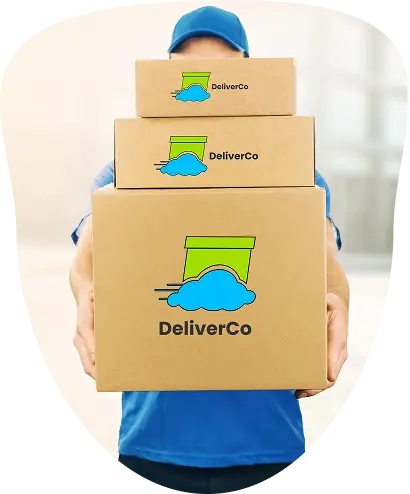
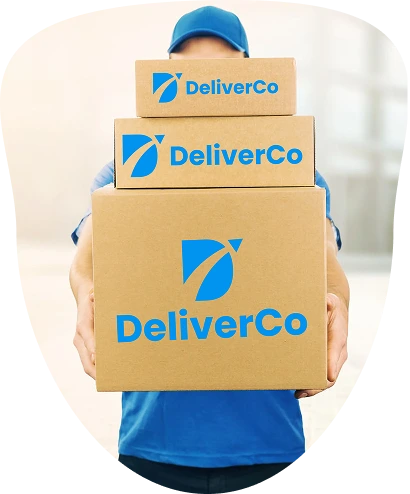
chore:replace new images and  sprate main image in new component and handle pass

Changed region(s): [[0.2634, 0.4555, 0.761, 0.6984], [0.2927, 0.2429, 0.761, 0.3644], [0.3512, 0.1215, 0.6732, 0.2126]]

diff --git a/src/features/auth/components/ForgetPasswordForm.tsx b/src/features/auth/components/ForgetPasswordForm.tsx
@@ -1,11 +1,10 @@
 import { useFormik } from "formik";
 import { Button } from "../../../shared/components/atoms/Button";
-import Image from "../../../shared/components/atoms/Image";
 import FormField from "../../../shared/components/molecules/FormField";
 import AuthHeader from "./AuthHeader";
 import { ForgetPasswordSchema } from "../validation/ForgetPasswordSchema";
 import useForgetPassword from "../services/ForgetPasswordApi";
-import image from "../../../assets/images/mainlogin.png";
+import MainImageAuth from "./atoms/MainImageAuth";
 
 const ForgetPasswordForm = () => {
   const { mutate, isPending } = useForgetPassword();
@@ -43,11 +42,7 @@ const ForgetPasswordForm = () => {
       </div>
 
       <div className="hidden md:block w-1/2 h-full">
-        <Image
-          src={image}
-          alt="login illustration"
-          className="w-full h-full object-cover"
-        />
+        <MainImageAuth />
       </div>
     </div>
   );

diff --git a/src/features/auth/components/LoginForm.tsx b/src/features/auth/components/LoginForm.tsx
@@ -1,13 +1,11 @@
 import FormField from "../../../shared/components/molecules/FormField";
-import Image from "../../../shared/components/atoms/Image";
-import image from "../../../assets/images/mainlogin.png";
 import { Button } from "../../../shared/components/atoms/Button";
 import { useFormik } from "formik";
 import useLoginAuth from "../services/loginAuth";
-
 import AuthHeader from "./AuthHeader";
 import { LoginSchema } from "../validation/LoginSchema";
 import { Link } from "react-router-dom";
+import MainImageAuth from "./atoms/MainImageAuth";
 
 const LoginForm = () => {
   const { mutate, isPending } = useLoginAuth();
@@ -65,11 +63,7 @@ const LoginForm = () => {
       </div>
 
       <div className="hidden md:block w-1/2 h-full">
-        <Image
-          src={image}
-          alt="login illustration"
-          className="w-full h-full object-cover"
-        />
+        <MainImageAuth />
       </div>
     </div>
   );

diff --git a/src/features/auth/components/ResendEmailForm.tsx b/src/features/auth/components/ResendEmailForm.tsx
@@ -1,11 +1,10 @@
-import Image from "../../../shared/components/atoms/Image";
-import image from "../../../assets/images/mainlogin.png";
 import { useFormik } from "formik";
 import AuthHeader from "./AuthHeader";
 import FormField from "../../../shared/components/molecules/FormField";
 import { Button } from "../../../shared/components/atoms/Button";
 import { ResendEmailSchema } from "../validation/ResendEmailSchema";
 import useConfirmEmail from "../services/confirmEmail";
+import MainImageAuth from "./atoms/MainImageAuth";
 
 const ResendEmailForm = () => {
   const { mutate, isPending } = useConfirmEmail();
@@ -43,11 +42,7 @@ const ResendEmailForm = () => {
       </div>
 
       <div className="hidden md:block w-1/2 h-full">
-        <Image
-          src={image}
-          alt="login illustration"
-          className="w-full h-full object-cover"
-        />
+        <MainImageAuth />
       </div>
     </div>
   );

diff --git a/src/features/auth/components/ResetCodeForm.tsx b/src/features/auth/components/ResetCodeForm.tsx
@@ -1,11 +1,10 @@
 import { useFormik } from "formik";
 import { Button } from "../../../shared/components/atoms/Button";
-import Image from "../../../shared/components/atoms/Image";
 import FormField from "../../../shared/components/molecules/FormField";
 import AuthHeader from "./AuthHeader";
-import image from "../../../assets/images/mainlogin.png";
 import useRestCode from "../services/ResetCodeApi";
 import { ResetCodeSchema } from "../validation/RestCodeSchema";
+import MainImageAuth from "./atoms/MainImageAuth";
 
 const ResetCodeForm = () => {
   const { mutate, isPending } = useRestCode();
@@ -46,11 +45,7 @@ const ResetCodeForm = () => {
       </div>
 
       <div className="hidden md:block w-1/2 h-full">
-        <Image
-          src={image}
-          alt="login illustration"
-          className="w-full h-full object-cover"
-        />
+        <MainImageAuth />
       </div>
     </div>
   );

diff --git a/src/features/auth/components/RestPasswordForm.tsx b/src/features/auth/components/RestPasswordForm.tsx
@@ -2,10 +2,9 @@ import { useFormik } from "formik";
 import AuthHeader from "./AuthHeader";
 import FormField from "../../../shared/components/molecules/FormField";
 import { Button } from "../../../shared/components/atoms/Button";
-import Image from "../../../shared/components/atoms/Image";
-import image from "../../../assets/images/mainlogin.png";
 import useRestPassword from "../services/RestPasswordApi";
 import { RestPasswordSchema } from "../validation/RestPasswordSchema";
+import MainImageAuth from "./atoms/MainImageAuth";
 
 const RestPasswordForm = () => {
   const fields: {
@@ -77,11 +76,7 @@ const RestPasswordForm = () => {
       </div>
 
       <div className="hidden md:block w-1/2 h-full">
-        <Image
-          src={image}
-          alt="login illustration"
-          className="w-full h-full object-cover"
-        />
+        <MainImageAuth />
       </div>
     </div>
   );

diff --git a/src/features/auth/components/SignupForm.tsx b/src/features/auth/components/SignupForm.tsx
@@ -1,12 +1,11 @@
 import FormField from "../../../shared/components/molecules/FormField";
-import Image from "../../../shared/components/atoms/Image";
-import image from "../../../assets/images/mainlogin.png";
 import { Button } from "../../../shared/components/atoms/Button";
 import { useFormik } from "formik";
 import useSigninAuth from "../services/signinAuth";
 
 import AuthHeader from "./AuthHeader";
 import { SignupSchema } from "../validation/SignupSchema";
+import MainImageAuth from "./atoms/MainImageAuth";
 
 const SignupForm = () => {
   const fields: {
@@ -80,11 +79,7 @@ const SignupForm = () => {
       </div>
 
       <div className="hidden md:block w-1/2 h-full">
-        <Image
-          src={image}
-          alt="login illustration"
-          className="w-full h-full object-cover"
-        />
+        <MainImageAuth />
       </div>
     </div>
   );

diff --git a/src/shared/components/atoms/Logo.tsx b/src/shared/components/atoms/Logo.tsx
@@ -1,13 +1,15 @@
-import logo from "../../../assets/icons/logo.webp";
+import logoH from "../../../assets/icons/NewlogoH.webp";
+import logoV from "../../../assets/icons/NewlogoV.webp";
+
 interface ILogo {
-  width?: "w-12" | "w-16" | "w-32" | "w-44" | "w-64";
+  width?: "w-12" | "w-16" | "w-24" | "w-32" | "w-44" | "w-64";
+  logo?: "logoH" | "logoV";
 }
-const Logo: React.FC<ILogo> = ({ width }) => {
-  return (
-    <>
-      <img src={logo} alt="logo image" className={width} />
-    </>
-  );
+
+const Logo: React.FC<ILogo> = ({ width, logo = "logoH" }) => {
+  const selectedLogo = logo === "logoH" ? logoH : logoV;
+
+  return <img src={selectedLogo} alt="logo image" className={width} />;
 };
 
 export default Logo;

diff --git a/src/features/auth/components/AuthHeader.tsx b/src/features/auth/components/AuthHeader.tsx
@@ -9,11 +9,11 @@ interface ILoginHeader {
 }
 
 const AuthHeader: React.FC<ILoginHeader> = ({ text, subTitle, link, to }) => (
-  <div className="flex flex-col gap-2 justify-center items-center">
-    <Logo width="w-64" />
-    <p className="text-heading-4 font-medium">{text}</p>
+  <div className="flex flex-col gap-2 justify-center items-center ">
+    <Logo logo="logoV" />
+    <p className="text-heading-4 font-medium ">{text}</p>
     {(subTitle || (link && to)) && (
-      <p className="text-body-1 text-gray-500 font-medium">
+      <p className="text-body-1 text-gray-500 font-medium ">
         {subTitle && <>{subTitle} </>}
         {link && to && (
           <Link to={to} className="text-primary underline">

diff --git a/src/shared/components/organisms/Navbar.tsx b/src/shared/components/organisms/Navbar.tsx
@@ -38,9 +38,9 @@ const Navbar = () => {
   return (
     <>
       <nav className="flex items-center relative z-10 justify-between p-4 bg-white shadow-md">
-        <div className="flex items-center gap-8">
-          <Logo width="w-16" />
-          <ul className="md:flex gap-4 hidden">
+        <div className="flex items-center gap-4">
+          <Logo width="w-32" />
+          <ul className="md:flex gap-4 hidden ">
             <NavLinks />
           </ul>
         </div>

diff --git a/src/shared/components/organisms/HeroSection.tsx b/src/shared/components/organisms/HeroSection.tsx
@@ -4,7 +4,7 @@ import { Button } from "../atoms/Button";
 const HeroSection = () => {
   return (
     <section
-      className="relative h-[calc(100vh-86px)] bg-gray-500 bg-cover bg-center p-4"
+      className="relative h-[calc(100vh-68px)] bg-gray-500 bg-cover bg-center p-4"
       style={{ backgroundImage: `url(${HeroImage})` }}
     >
       <div className="absolute inset-0 bg-main-color/25 z-0" />

diff --git a/src/features/auth/components/atoms/MainImageAuth.tsx b/src/features/auth/components/atoms/MainImageAuth.tsx
@@ -1,0 +1,15 @@
+import Image from "../../../../shared/components/atoms/Image";
+import image from "..//../../../assets/images/mainlogin.webp";
+const MainImageAuth = () => {
+  return (
+    <>
+      <Image
+        src={image}
+        alt="login illustration"
+        className="w-full h-full object-cover"
+      />
+    </>
+  );
+};
+
+export default MainImageAuth;
